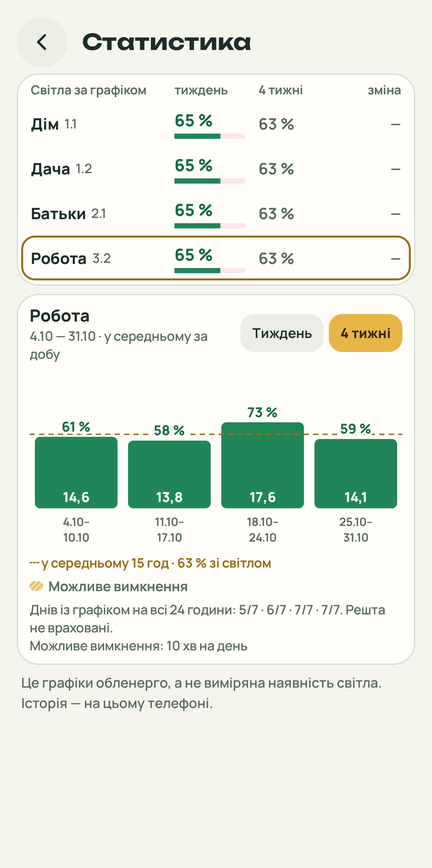
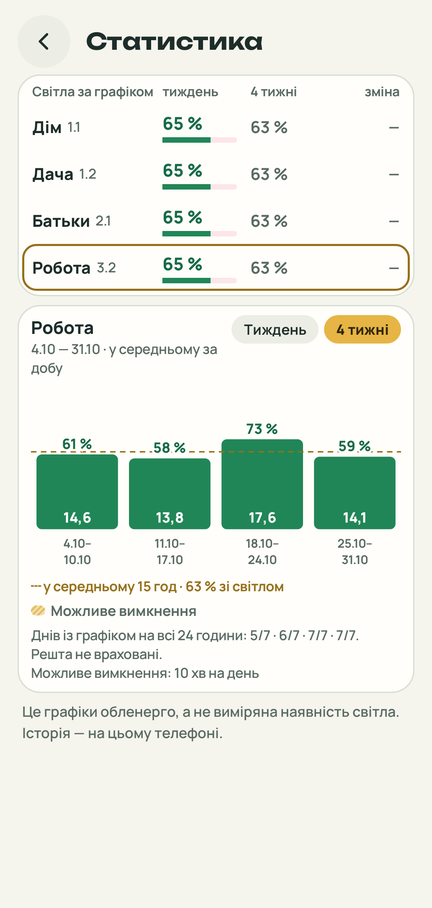
Document compact layouts and refresh native screenshots

diff --git a/docs/index.html b/docs/index.html
@@ -34,13 +34,13 @@
 <p class="meta"><span data-ver>Безкоштовно</span> · Android 8.0 і новіші · без реклами й реєстрації</p>
 <p class="pc">Відкрийте цю сторінку на телефоні, щоб встановити застосунок.</p>
 </section>
-<div class="shots"><img src="screenshots/main-dark.png" alt="Головний екран з чотирма місцями" width="432" height="868" loading="lazy"><img src="screenshots/stats.png" alt="Статистика за тиждень" width="432" height="868" loading="lazy"><img src="screenshots/settings.png" alt="Налаштування місць і сповіщень" width="432" height="868" loading="lazy"><img src="screenshots/main-light.png" alt="Головний екран у світлій темі" width="432" height="868" loading="lazy"></div>
+<div class="shots"><img src="screenshots/main-dark.png" alt="Головний екран з чотирма місцями" width="432" height="908" loading="lazy"><img src="screenshots/stats.png" alt="Статистика за тиждень" width="432" height="908" loading="lazy"><img src="screenshots/settings.png" alt="Налаштування місць і сповіщень" width="432" height="908" loading="lazy"><img src="screenshots/main-light.png" alt="Головний екран у світлій темі" width="432" height="908" loading="lazy"></div>
 <h2 id="vidzhety">Віджети на головному екрані</h2>
 <p>Стан видно без відкриття застосунку: для кожного місця — свій віджет із лампочкою, станом і часом наступної зміни. Зелений — світло є, червоний — світла немає, бурштиновий — можливе вимкнення.</p>
-<img class="wshot" src="screenshots/widgets.png" alt="Малий і великий віджети у світлій і темній темах" width="960" height="650" loading="lazy">
+<img class="wshot" src="screenshots/widgets.png" alt="Малий і великий віджети у світлій і темній темах" width="960" height="620" loading="lazy">
 <p class="note">Два розміри віджета: малий 2×1 і великий 4×2. Після появи завтрашнього графіка у великому видно сьогодні 12–23 і завтра 00–11; опівночі повертається повний день. Минулі години темніші, поточна має жовту рамку.</p>
 <h2 id="mozhlyvosti">Що вміє</h2>
-<div class="grid"><div class="card"><h3><span class="e" aria-hidden="true">📅</span>Графік вашої черги</h3><p>Чи є світло зараз за графіком і відколи, коли вимкнуть або ввімкнуть і через скільки. Сьогодні й завтра — 24 годинні клітинки у двох рядах, кожна з половинами по 30 хвилин. Дотик показує початок, кінець і тривалість відрізка.</p></div><div class="card"><h3><span class="e" aria-hidden="true">🔔</span>Сповіщення</h3><p>За 15 хвилин до вимкнення і за 15 хвилин до ввімкнення світла. У повідомленні — інтервал і тривалість світла чи вимкнення. Час, тиша вночі й сповіщення про новий графік — у налаштуваннях кожного місця.</p></div><div class="card"><h3><span class="e" aria-hidden="true">🧩</span>Віджет</h3><p>Лампочка, стан і до котрої години — на головному екрані, без відкриття застосунку. Свій віджет для кожного місця.</p></div><div class="card"><h3><span class="e" aria-hidden="true">📍</span>Кілька місць</h3><p>До 4 місць з будь-якими областями й чергами: дім, дача, батьки, робота.</p></div><div class="card"><h3><span class="e" aria-hidden="true">📊</span>Статистика</h3><p>Таблиця всіх місць із відсотками світла за тиждень і 4 тижні. Дотик до місця відкриває його графік.</p></div><div class="card"><h3><span class="e" aria-hidden="true">📤</span>Поділитися</h3><p>Графік дня картинкою у Viber чи Telegram — для рідних, у яких немає застосунку.</p></div></div>
+<div class="grid"><div class="card"><h3><span class="e" aria-hidden="true">📅</span>Графік вашої черги</h3><p>Чи є світло зараз за графіком і відколи, коли вимкнуть або ввімкнуть і через скільки. Сьогодні й завтра — 24 годинні клітинки у двох рядах, кожна з половинами по 30 хвилин. Дотик показує початок, кінець і тривалість відрізка.</p></div><div class="card"><h3><span class="e" aria-hidden="true">🔔</span>Сповіщення</h3><p>За 15 хвилин до вимкнення і за 15 хвилин до ввімкнення світла. У повідомленні — інтервал і тривалість світла чи вимкнення. Час, тиша вночі й сповіщення про новий графік — у налаштуваннях кожного місця.</p></div><div class="card"><h3><span class="e" aria-hidden="true">🧩</span>Віджет</h3><p>Лампочка, стан і до котрої години — на головному екрані, без відкриття застосунку. Свій віджет для кожного місця.</p></div><div class="card"><h3><span class="e" aria-hidden="true">📍</span>Кілька місць</h3><p>До 4 місць з будь-якими областями й чергами: дім, дача, батьки, робота. Дві плитки в рядку, коли дозволяє ширина екрана, зокрема зі збільшеним системним шрифтом.</p></div><div class="card"><h3><span class="e" aria-hidden="true">📊</span>Статистика</h3><p>Таблиця всіх місць із відсотками світла за тиждень і 4 тижні. Дотик до місця відкриває його графік.</p></div><div class="card"><h3><span class="e" aria-hidden="true">📤</span>Поділитися</h3><p>Графік дня картинкою у Viber чи Telegram — для рідних, у яких немає застосунку.</p></div></div>
 <h2 id="oblasti">Області</h2>
 <p>Графіки є для міста Києва і 16 областей.</p>
 <ul class="regions"><li><a href="misto-kyiv/">Місто Київ</a></li><li><a href="kyivska/">Київська область</a></li><li><a href="vinnytska/">Вінницька область</a></li><li><a href="dnipropetrovska/">Дніпропетровська область</a></li><li><a href="cherkaska/">Черкаська область</a></li><li><a href="kharkivska/">Харківська область</a></li><li><a href="zhytomyrska/">Житомирська область</a></li><li><a href="zakarpatska/">Закарпатська область</a></li><li><a href="zaporizka/">Запорізька область</a></li><li><a href="ivano-frankivska/">Івано-Франківська область</a></li><li><a href="lvivska/">Львівська область</a></li><li><a href="odeska/">Одеська область</a></li><li><a href="poltavska/">Полтавська область</a></li><li><a href="rivnenska/">Рівненська область</a></li><li><a href="ternopilska/">Тернопільська область</a></li><li><a href="khmelnytska/">Хмельницька область</a></li><li><a href="chernihivska/">Чернігівська область</a></li></ul>

diff --git a/docs/misto-kyiv/index.html b/docs/misto-kyiv/index.html
@@ -34,7 +34,7 @@
 <p class="meta"><span data-ver>Безкоштовно</span> · Android 8.0 і новіші · без реклами й реєстрації</p>
 <p class="pc">Відкрийте цю сторінку на телефоні, щоб встановити застосунок.</p>
 </section>
-<div class="shots"><img src="../screenshots/main-dark.png" alt="Головний екран з чотирма місцями" width="432" height="868" loading="lazy"><img src="../screenshots/stats.png" alt="Статистика за тиждень" width="432" height="868" loading="lazy"><img src="../screenshots/settings.png" alt="Налаштування сповіщень" width="432" height="868" loading="lazy"><img src="../screenshots/main-light.png" alt="Головний екран у світлій темі" width="432" height="868" loading="lazy"></div>
+<div class="shots"><img src="../screenshots/main-dark.png" alt="Головний екран з чотирма місцями" width="432" height="908" loading="lazy"><img src="../screenshots/stats.png" alt="Статистика за тиждень" width="432" height="908" loading="lazy"><img src="../screenshots/settings.png" alt="Налаштування сповіщень" width="432" height="908" loading="lazy"><img src="../screenshots/main-light.png" alt="Головний екран у світлій темі" width="432" height="908" loading="lazy"></div>
 <h2>Звідки графік</h2>
 <p>Графік міста Київ публікує ДТЕК Київські електромережі. Світлячок бере його з відкритого архіву на GitHub (<a href="https://github.com/Baskerville42/outage-data-ua">Baskerville42/outage-data-ua</a>), який збирає графіки із сайтів обленерго. Застосунок перевіряє оновлення приблизно раз на 15 хвилин.</p>
 <p>Сайт ДТЕК для Києва номера черги не показує. Знайти її за адресою можна на неофіційному сайті <a href="https://bezsvitla.com.ua/kyiv#street-search-widget">«Без світла»</a>, посилання є і в застосунку.</p>

diff --git a/docs/zaporizka/index.html b/docs/zaporizka/index.html
@@ -34,7 +34,7 @@
 <p class="meta"><span data-ver>Безкоштовно</span> · Android 8.0 і новіші · без реклами й реєстрації</p>
 <p class="pc">Відкрийте цю сторінку на телефоні, щоб встановити застосунок.</p>
 </section>
-<div class="shots"><img src="../screenshots/main-dark.png" alt="Головний екран з чотирма місцями" width="432" height="868" loading="lazy"><img src="../screenshots/stats.png" alt="Статистика за тиждень" width="432" height="868" loading="lazy"><img src="../screenshots/settings.png" alt="Налаштування сповіщень" width="432" height="868" loading="lazy"><img src="../screenshots/main-light.png" alt="Головний екран у світлій темі" width="432" height="868" loading="lazy"></div>
+<div class="shots"><img src="../screenshots/main-dark.png" alt="Головний екран з чотирма місцями" width="432" height="908" loading="lazy"><img src="../screenshots/stats.png" alt="Статистика за тиждень" width="432" height="908" loading="lazy"><img src="../screenshots/settings.png" alt="Налаштування сповіщень" width="432" height="908" loading="lazy"><img src="../screenshots/main-light.png" alt="Головний екран у світлій темі" width="432" height="908" loading="lazy"></div>
 <h2>Звідки графік</h2>
 <p>Графік Запорізької області публікує Запоріжжяобленерго. Світлячок бере його з відкритих архівів на GitHub (<a href="https://github.com/milkmann/gpv-zoe-zaporizhzhia">milkmann/gpv-zoe-zaporizhzhia</a>, <a href="https://github.com/yaroslav2901/OE_OUTAGE_DATA">yaroslav2901/OE_OUTAGE_DATA</a>), які збирають графіки із сайтів обленерго. Застосунок перевіряє оновлення приблизно раз на 15 хвилин.</p>
 <p>Після встановлення оберіть «Запорізька область» і свою чергу. Можна додати до 4 місць, зокрема з інших областей.</p>

diff --git a/docs/vinnytska/index.html b/docs/vinnytska/index.html
@@ -34,7 +34,7 @@
 <p class="meta"><span data-ver>Безкоштовно</span> · Android 8.0 і новіші · без реклами й реєстрації</p>
 <p class="pc">Відкрийте цю сторінку на телефоні, щоб встановити застосунок.</p>
 </section>
-<div class="shots"><img src="../screenshots/main-dark.png" alt="Головний екран з чотирма місцями" width="432" height="868" loading="lazy"><img src="../screenshots/stats.png" alt="Статистика за тиждень" width="432" height="868" loading="lazy"><img src="../screenshots/settings.png" alt="Налаштування сповіщень" width="432" height="868" loading="lazy"><img src="../screenshots/main-light.png" alt="Головний екран у світлій темі" width="432" height="868" loading="lazy"></div>
+<div class="shots"><img src="../screenshots/main-dark.png" alt="Головний екран з чотирма місцями" width="432" height="908" loading="lazy"><img src="../screenshots/stats.png" alt="Статистика за тиждень" width="432" height="908" loading="lazy"><img src="../screenshots/settings.png" alt="Налаштування сповіщень" width="432" height="908" loading="lazy"><img src="../screenshots/main-light.png" alt="Головний екран у світлій темі" width="432" height="908" loading="lazy"></div>
 <h2>Звідки графік</h2>
 <p>Графік Вінницької області публікує Вінницяобленерго. Світлячок бере його з відкритих архівів на GitHub (<a href="https://github.com/olnet93/gpv-voe-vinnytsia">olnet93/gpv-voe-vinnytsia</a>, <a href="https://github.com/vn-progr/gpv-voe-vinnytsia">vn-progr/gpv-voe-vinnytsia</a>), які збирають графіки із сайтів обленерго. Застосунок перевіряє оновлення приблизно раз на 15 хвилин.</p>
 <p>Після встановлення оберіть «Вінницька область» і свою чергу. Можна додати до 4 місць, зокрема з інших областей.</p>

diff --git a/docs/dnipropetrovska/index.html b/docs/dnipropetrovska/index.html
@@ -34,7 +34,7 @@
 <p class="meta"><span data-ver>Безкоштовно</span> · Android 8.0 і новіші · без реклами й реєстрації</p>
 <p class="pc">Відкрийте цю сторінку на телефоні, щоб встановити застосунок.</p>
 </section>
-<div class="shots"><img src="../screenshots/main-dark.png" alt="Головний екран з чотирма місцями" width="432" height="868" loading="lazy"><img src="../screenshots/stats.png" alt="Статистика за тиждень" width="432" height="868" loading="lazy"><img src="../screenshots/settings.png" alt="Налаштування сповіщень" width="432" height="868" loading="lazy"><img src="../screenshots/main-light.png" alt="Головний екран у світлій темі" width="432" height="868" loading="lazy"></div>
+<div class="shots"><img src="../screenshots/main-dark.png" alt="Головний екран з чотирма місцями" width="432" height="908" loading="lazy"><img src="../screenshots/stats.png" alt="Статистика за тиждень" width="432" height="908" loading="lazy"><img src="../screenshots/settings.png" alt="Налаштування сповіщень" width="432" height="908" loading="lazy"><img src="../screenshots/main-light.png" alt="Головний екран у світлій темі" width="432" height="908" loading="lazy"></div>
 <h2>Звідки графік</h2>
 <p>Графік Дніпропетровської області публікує ДТЕК Дніпровські електромережі. Світлячок бере його з відкритого архіву на GitHub (<a href="https://github.com/Baskerville42/outage-data-ua">Baskerville42/outage-data-ua</a>), який збирає графіки із сайтів обленерго. Застосунок перевіряє оновлення приблизно раз на 15 хвилин.</p>
 <p>Після встановлення оберіть «Дніпропетровська область» і свою чергу. Можна додати до 4 місць, зокрема з інших областей.</p>

diff --git a/docs/kyivska/index.html b/docs/kyivska/index.html
@@ -34,7 +34,7 @@
 <p class="meta"><span data-ver>Безкоштовно</span> · Android 8.0 і новіші · без реклами й реєстрації</p>
 <p class="pc">Відкрийте цю сторінку на телефоні, щоб встановити застосунок.</p>
 </section>
-<div class="shots"><img src="../screenshots/main-dark.png" alt="Головний екран з чотирма місцями" width="432" height="868" loading="lazy"><img src="../screenshots/stats.png" alt="Статистика за тиждень" width="432" height="868" loading="lazy"><img src="../screenshots/settings.png" alt="Налаштування сповіщень" width="432" height="868" loading="lazy"><img src="../screenshots/main-light.png" alt="Головний екран у світлій темі" width="432" height="868" loading="lazy"></div>
+<div class="shots"><img src="../screenshots/main-dark.png" alt="Головний екран з чотирма місцями" width="432" height="908" loading="lazy"><img src="../screenshots/stats.png" alt="Статистика за тиждень" width="432" height="908" loading="lazy"><img src="../screenshots/settings.png" alt="Налаштування сповіщень" width="432" height="908" loading="lazy"><img src="../screenshots/main-light.png" alt="Головний екран у світлій темі" width="432" height="908" loading="lazy"></div>
 <h2>Звідки графік</h2>
 <p>Графік Київської області публікує ДТЕК Київські регіональні електромережі. Світлячок бере його з відкритого архіву на GitHub (<a href="https://github.com/Baskerville42/outage-data-ua">Baskerville42/outage-data-ua</a>), який збирає графіки із сайтів обленерго. Застосунок перевіряє оновлення приблизно раз на 15 хвилин.</p>
 <p>Після встановлення оберіть «Київська область» і свою чергу. Можна додати до 4 місць, зокрема з інших областей.</p>

diff --git a/docs/ivano-frankivska/index.html b/docs/ivano-frankivska/index.html
@@ -34,7 +34,7 @@
 <p class="meta"><span data-ver>Безкоштовно</span> · Android 8.0 і новіші · без реклами й реєстрації</p>
 <p class="pc">Відкрийте цю сторінку на телефоні, щоб встановити застосунок.</p>
 </section>
-<div class="shots"><img src="../screenshots/main-dark.png" alt="Головний екран з чотирма місцями" width="432" height="868" loading="lazy"><img src="../screenshots/stats.png" alt="Статистика за тиждень" width="432" height="868" loading="lazy"><img src="../screenshots/settings.png" alt="Налаштування сповіщень" width="432" height="868" loading="lazy"><img src="../screenshots/main-light.png" alt="Головний екран у світлій темі" width="432" height="868" loading="lazy"></div>
+<div class="shots"><img src="../screenshots/main-dark.png" alt="Головний екран з чотирма місцями" width="432" height="908" loading="lazy"><img src="../screenshots/stats.png" alt="Статистика за тиждень" width="432" height="908" loading="lazy"><img src="../screenshots/settings.png" alt="Налаштування сповіщень" width="432" height="908" loading="lazy"><img src="../screenshots/main-light.png" alt="Головний екран у світлій темі" width="432" height="908" loading="lazy"></div>
 <h2>Звідки графік</h2>
 <p>Графік Івано-Франківської області публікує Прикарпаттяобленерго. Світлячок бере його з відкритого архіву на GitHub (<a href="https://github.com/yaroslav2901/OE_OUTAGE_DATA">yaroslav2901/OE_OUTAGE_DATA</a>), який збирає графіки із сайтів обленерго. Застосунок перевіряє оновлення приблизно раз на 15 хвилин.</p>
 <p>Після встановлення оберіть «Івано-Франківська область» і свою чергу. Можна додати до 4 місць, зокрема з інших областей.</p>

diff --git a/docs/ternopilska/index.html b/docs/ternopilska/index.html
@@ -34,7 +34,7 @@
 <p class="meta"><span data-ver>Безкоштовно</span> · Android 8.0 і новіші · без реклами й реєстрації</p>
 <p class="pc">Відкрийте цю сторінку на телефоні, щоб встановити застосунок.</p>
 </section>
-<div class="shots"><img src="../screenshots/main-dark.png" alt="Головний екран з чотирма місцями" width="432" height="868" loading="lazy"><img src="../screenshots/stats.png" alt="Статистика за тиждень" width="432" height="868" loading="lazy"><img src="../screenshots/settings.png" alt="Налаштування сповіщень" width="432" height="868" loading="lazy"><img src="../screenshots/main-light.png" alt="Головний екран у світлій темі" width="432" height="868" loading="lazy"></div>
+<div class="shots"><img src="../screenshots/main-dark.png" alt="Головний екран з чотирма місцями" width="432" height="908" loading="lazy"><img src="../screenshots/stats.png" alt="Статистика за тиждень" width="432" height="908" loading="lazy"><img src="../screenshots/settings.png" alt="Налаштування сповіщень" width="432" height="908" loading="lazy"><img src="../screenshots/main-light.png" alt="Головний екран у світлій темі" width="432" height="908" loading="lazy"></div>
 <h2>Звідки графік</h2>
 <p>Графік Тернопільської області публікує Тернопільобленерго. Світлячок бере його з відкритого архіву на GitHub (<a href="https://github.com/yaroslav2901/OE_OUTAGE_DATA">yaroslav2901/OE_OUTAGE_DATA</a>), який збирає графіки із сайтів обленерго. Застосунок перевіряє оновлення приблизно раз на 15 хвилин.</p>
 <p>Після встановлення оберіть «Тернопільська область» і свою чергу. Можна додати до 4 місць, зокрема з інших областей.</p>

diff --git a/docs/zakarpatska/index.html b/docs/zakarpatska/index.html
@@ -34,7 +34,7 @@
 <p class="meta"><span data-ver>Безкоштовно</span> · Android 8.0 і новіші · без реклами й реєстрації</p>
 <p class="pc">Відкрийте цю сторінку на телефоні, щоб встановити застосунок.</p>
 </section>
-<div class="shots"><img src="../screenshots/main-dark.png" alt="Головний екран з чотирма місцями" width="432" height="868" loading="lazy"><img src="../screenshots/stats.png" alt="Статистика за тиждень" width="432" height="868" loading="lazy"><img src="../screenshots/settings.png" alt="Налаштування сповіщень" width="432" height="868" loading="lazy"><img src="../screenshots/main-light.png" alt="Головний екран у світлій темі" width="432" height="868" loading="lazy"></div>
+<div class="shots"><img src="../screenshots/main-dark.png" alt="Головний екран з чотирма місцями" width="432" height="908" loading="lazy"><img src="../screenshots/stats.png" alt="Статистика за тиждень" width="432" height="908" loading="lazy"><img src="../screenshots/settings.png" alt="Налаштування сповіщень" width="432" height="908" loading="lazy"><img src="../screenshots/main-light.png" alt="Головний екран у світлій темі" width="432" height="908" loading="lazy"></div>
 <h2>Звідки графік</h2>
 <p>Графік Закарпатської області публікує Закарпаттяобленерго. Світлячок бере його з відкритого архіву на GitHub (<a href="https://github.com/yaroslav2901/OE_OUTAGE_DATA">yaroslav2901/OE_OUTAGE_DATA</a>), який збирає графіки із сайтів обленерго. Застосунок перевіряє оновлення приблизно раз на 15 хвилин.</p>
 <p>Після встановлення оберіть «Закарпатська область» і свою чергу. Можна додати до 4 місць, зокрема з інших областей.</p>

diff --git a/docs/chernihivska/index.html b/docs/chernihivska/index.html
@@ -34,7 +34,7 @@
 <p class="meta"><span data-ver>Безкоштовно</span> · Android 8.0 і новіші · без реклами й реєстрації</p>
 <p class="pc">Відкрийте цю сторінку на телефоні, щоб встановити застосунок.</p>
 </section>
-<div class="shots"><img src="../screenshots/main-dark.png" alt="Головний екран з чотирма місцями" width="432" height="868" loading="lazy"><img src="../screenshots/stats.png" alt="Статистика за тиждень" width="432" height="868" loading="lazy"><img src="../screenshots/settings.png" alt="Налаштування сповіщень" width="432" height="868" loading="lazy"><img src="../screenshots/main-light.png" alt="Головний екран у світлій темі" width="432" height="868" loading="lazy"></div>
+<div class="shots"><img src="../screenshots/main-dark.png" alt="Головний екран з чотирма місцями" width="432" height="908" loading="lazy"><img src="../screenshots/stats.png" alt="Статистика за тиждень" width="432" height="908" loading="lazy"><img src="../screenshots/settings.png" alt="Налаштування сповіщень" width="432" height="908" loading="lazy"><img src="../screenshots/main-light.png" alt="Головний екран у світлій темі" width="432" height="908" loading="lazy"></div>
 <h2>Звідки графік</h2>
 <p>Графік Чернігівської області публікує Чернігівобленерго. Світлячок бере його з відкритого архіву на GitHub (<a href="https://github.com/yaroslav2901/OE_OUTAGE_DATA">yaroslav2901/OE_OUTAGE_DATA</a>), який збирає графіки із сайтів обленерго. Застосунок перевіряє оновлення приблизно раз на 15 хвилин.</p>
 <p>Після встановлення оберіть «Чернігівська область» і свою чергу. Можна додати до 4 місць, зокрема з інших областей.</p>

diff --git a/docs/khmelnytska/index.html b/docs/khmelnytska/index.html
@@ -34,7 +34,7 @@
 <p class="meta"><span data-ver>Безкоштовно</span> · Android 8.0 і новіші · без реклами й реєстрації</p>
 <p class="pc">Відкрийте цю сторінку на телефоні, щоб встановити застосунок.</p>
 </section>
-<div class="shots"><img src="../screenshots/main-dark.png" alt="Головний екран з чотирма місцями" width="432" height="868" loading="lazy"><img src="../screenshots/stats.png" alt="Статистика за тиждень" width="432" height="868" loading="lazy"><img src="../screenshots/settings.png" alt="Налаштування сповіщень" width="432" height="868" loading="lazy"><img src="../screenshots/main-light.png" alt="Головний екран у світлій темі" width="432" height="868" loading="lazy"></div>
+<div class="shots"><img src="../screenshots/main-dark.png" alt="Головний екран з чотирма місцями" width="432" height="908" loading="lazy"><img src="../screenshots/stats.png" alt="Статистика за тиждень" width="432" height="908" loading="lazy"><img src="../screenshots/settings.png" alt="Налаштування сповіщень" width="432" height="908" loading="lazy"><img src="../screenshots/main-light.png" alt="Головний екран у світлій темі" width="432" height="908" loading="lazy"></div>
 <h2>Звідки графік</h2>
 <p>Графік Хмельницької області публікує Хмельницькобленерго. Світлячок бере його з відкритого архіву на GitHub (<a href="https://github.com/yaroslav2901/OE_OUTAGE_DATA">yaroslav2901/OE_OUTAGE_DATA</a>), який збирає графіки із сайтів обленерго. Застосунок перевіряє оновлення приблизно раз на 15 хвилин.</p>
 <p>Після встановлення оберіть «Хмельницька область» і свою чергу. Можна додати до 4 місць, зокрема з інших областей.</p>

diff --git a/docs/odeska/index.html b/docs/odeska/index.html
@@ -34,7 +34,7 @@
 <p class="meta"><span data-ver>Безкоштовно</span> · Android 8.0 і новіші · без реклами й реєстрації</p>
 <p class="pc">Відкрийте цю сторінку на телефоні, щоб встановити застосунок.</p>
 </section>
-<div class="shots"><img src="../screenshots/main-dark.png" alt="Головний екран з чотирма місцями" width="432" height="868" loading="lazy"><img src="../screenshots/stats.png" alt="Статистика за тиждень" width="432" height="868" loading="lazy"><img src="../screenshots/settings.png" alt="Налаштування сповіщень" width="432" height="868" loading="lazy"><img src="../screenshots/main-light.png" alt="Головний екран у світлій темі" width="432" height="868" loading="lazy"></div>
+<div class="shots"><img src="../screenshots/main-dark.png" alt="Головний екран з чотирма місцями" width="432" height="908" loading="lazy"><img src="../screenshots/stats.png" alt="Статистика за тиждень" width="432" height="908" loading="lazy"><img src="../screenshots/settings.png" alt="Налаштування сповіщень" width="432" height="908" loading="lazy"><img src="../screenshots/main-light.png" alt="Головний екран у світлій темі" width="432" height="908" loading="lazy"></div>
 <h2>Звідки графік</h2>
 <p>Графік Одеської області публікує ДТЕК Одеські електромережі. Світлячок бере його з відкритого архіву на GitHub (<a href="https://github.com/Baskerville42/outage-data-ua">Baskerville42/outage-data-ua</a>), який збирає графіки із сайтів обленерго. Застосунок перевіряє оновлення приблизно раз на 15 хвилин.</p>
 <p>Після встановлення оберіть «Одеська область» і свою чергу. Можна додати до 4 місць, зокрема з інших областей.</p>
